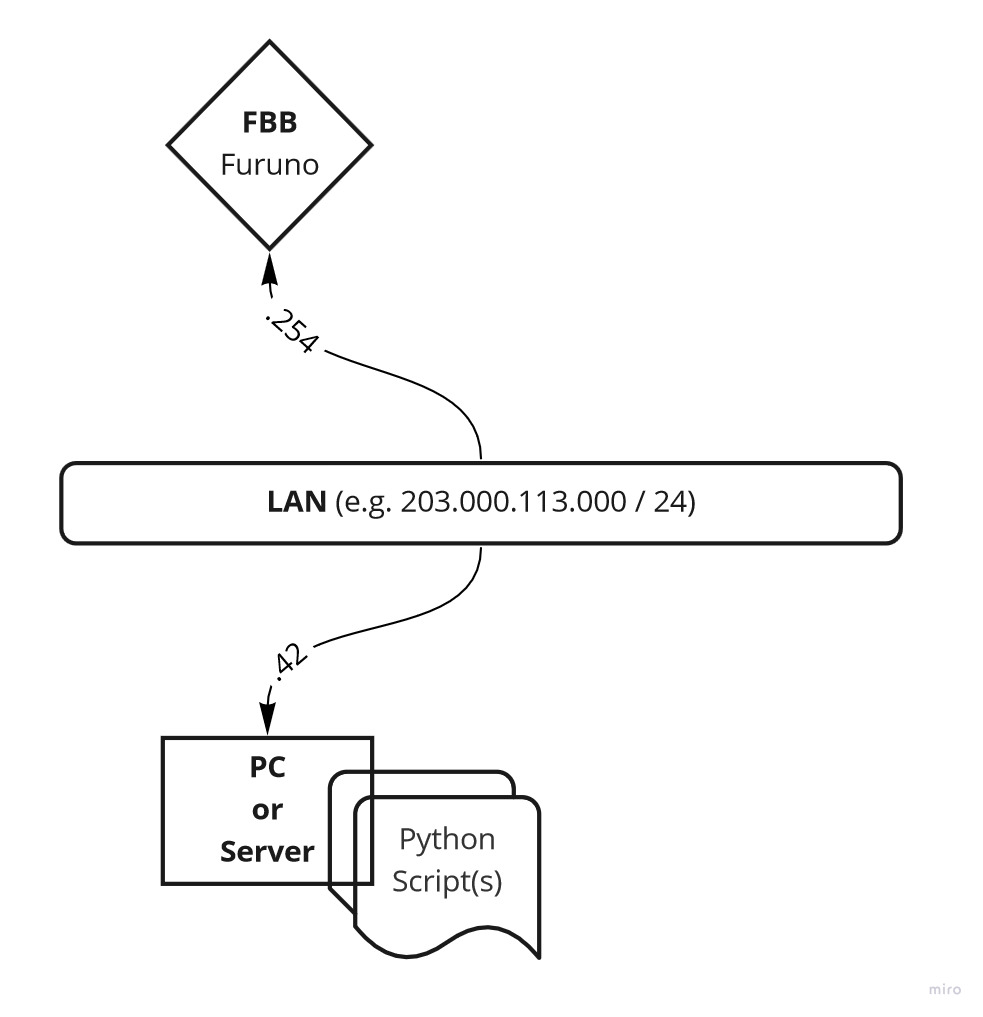
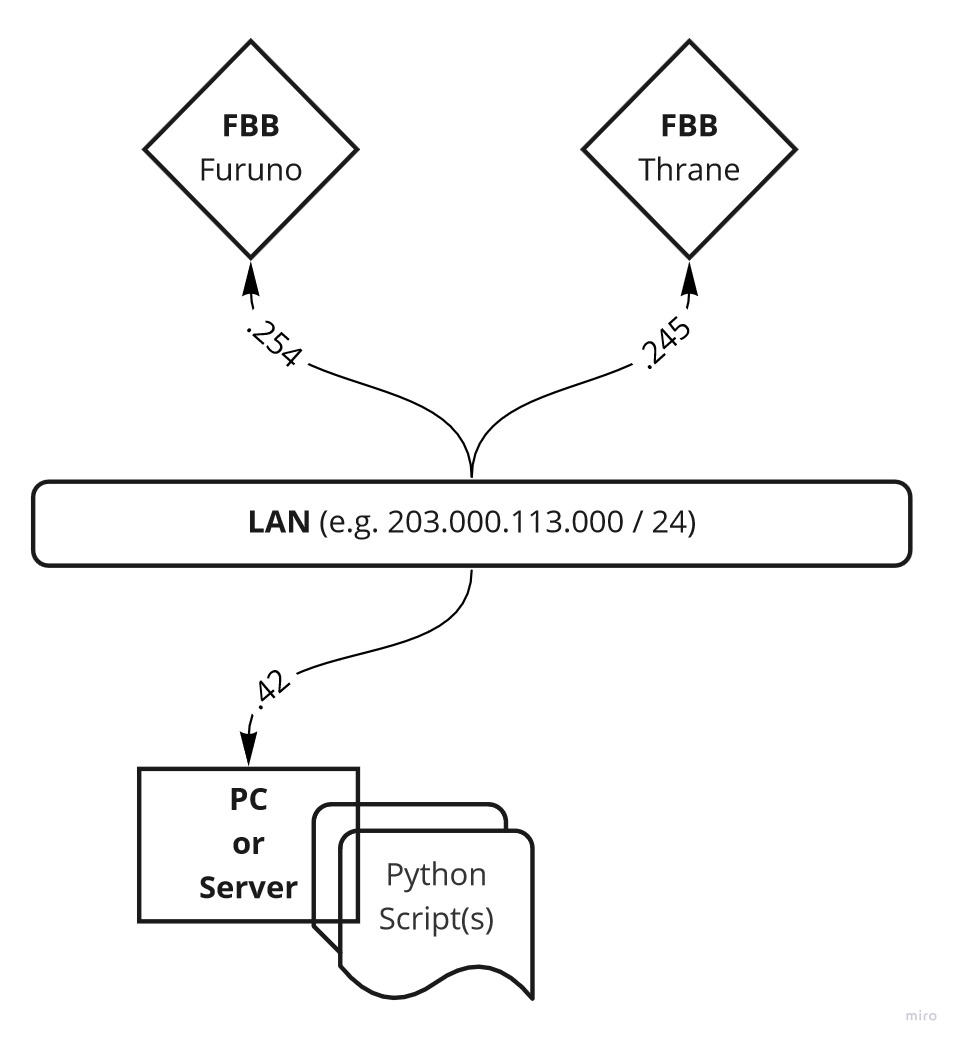
getGps {Lat, Lon} reported by thrane

diff --git a/getGps.py b/getGps.py
@@ -1,0 +1,35 @@
+#!/usr/bin/python 
+import sys 
+import getopt 
+import os.path 
+
+import time 
+import datetime 
+
+import re 
+from urllib import urlopen 
+from xml.dom.minidom import parseString 
+import urllib2 
+
+if __name__ == '__main__': 
+    # Analyzing  [http://10.10....] ...
+    html = urllib2.urlopen(urllib2.Request("http://203.0.113.245/")).read() 
+    text = re.sub(r'&.*?;', ' ', re.sub(r'<[^>]*?>', '', html) ) 
+    rexpr = re.compile('.*GPS position(.+)Standard voice outbound') 
+    found = rexpr.search(text) 
+    if (not found): 
+        print "Unable to spot LAT and LNG in this file" 
+        exit() 
+    # Processing [" + found.group(1) + "] ...
+    array = re.sub(' +', ' ', re.sub("[,']", '', found.group(1)) ).split() 
+#    print array 
+    if (array[0]=='Acquiring'):
+        print "Unable to spot LAT and LNG in this file"
+        exit()
+    lat = ( float(array[1]) + float(array[2])/60 ) 
+    if (array[0]=='S'): lat *= -1 
+    lng = ( float(array[4]) + float(array[5])/60 ) 
+    if (array[3]=='W'): lng *= -1 
+    os.spawnv( os.P_WAIT,"/bin/date", ("/bin/date", "-u", "+%Y-%m-%d %H:%M:%S" ) ) 
+    print lat 
+    print lng 
